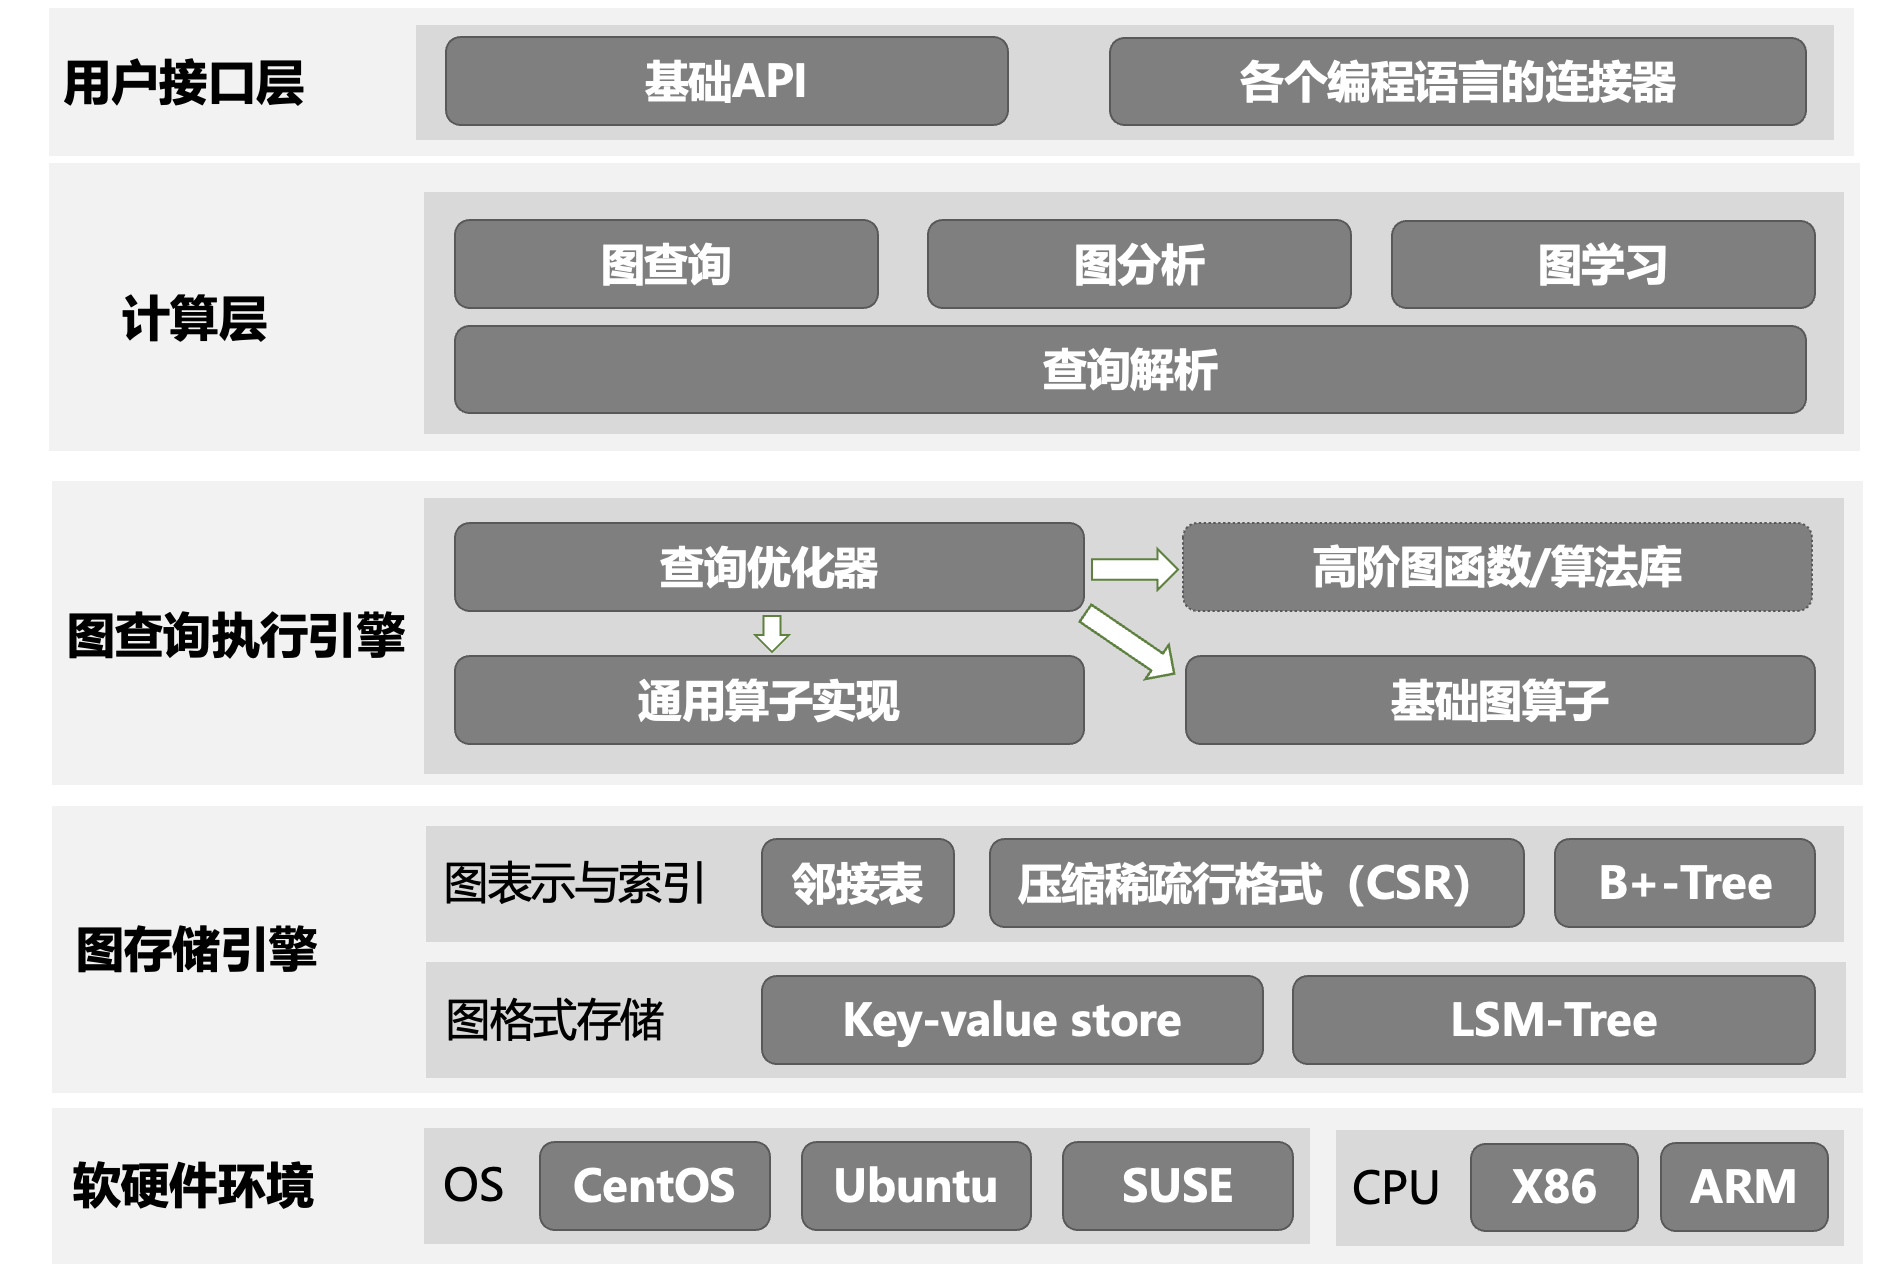
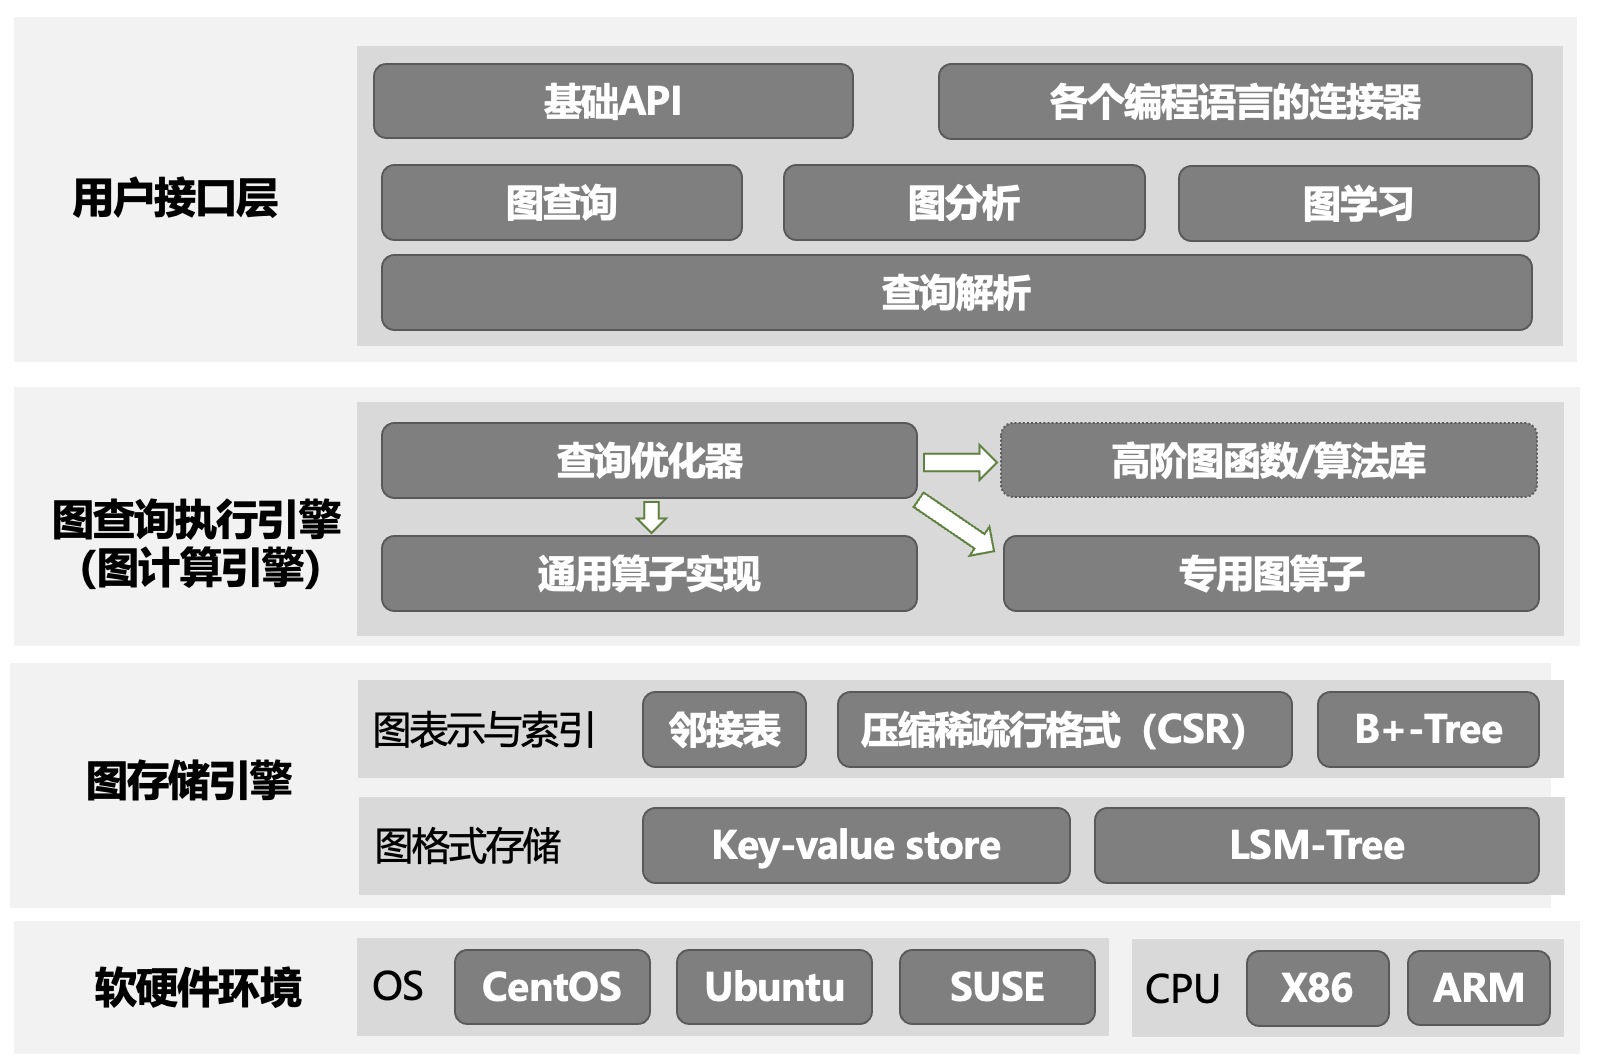
喵

diff --git a/chapter3.6-G.md b/chapter3.6-G.md
@@ -7,11 +7,12 @@
 
 ### 3.6.1 图数据库的软件架构
 
-在[**3.1小节**](chapter3.1.md) 中，我们讲授了数据管理系统的基本架构（图3.1）。图数据库遵从此框架，其架构如图3.13所示。**用户接口层**包括了基础API供开发者调用，同时提供多种编程语言（如 Java、Python、C++）的客户端库，使开发者可以通过代码直接与数据库交互。**计算引擎**包括了查询解析和查询执行引擎，对于一个图查询任务首先由查询解析模块生成初步执行计划，随后经过图查询执行引擎的查询优化模块进行优化，并调用相应的算子进行执行。
+在[**3.1小节**](chapter3.1.md) 中，我们讲授了数据管理系统的基本架构（图3.1）。图数据库遵从此框架（其架构如图3-6-1所示），其中**用户接口层**包括了基础API供开发者调用，同时提供多种编程语言（如 Java、Python、C++）的客户端库，使开发者可以通过代码直接与数据库交互。通过用户接口，用户可以将相应的图查询语句提交给数据库。目前大多数图数据库（如neo4j和TuGraph）不仅支持基于cypher的图数据库查询，同时还支持更复杂的图分析和图学习任务。用户经由API输入的图查询/图分析操作通过**查询解析**“理解”其查询语义，并将其转化为一棵抽象语法树。
+**计算引擎**利用抽象语法树生成初步执行计划，并通过查询优化模块进行优化，用相应的算子进行执行。
 
-图算子通常为通用或者专用的基础图算法。此处“通用算法”指图上的基础操作，其他图算法可由该类算法组合得到。“专用算法”是指某些算法虽然可由更底层的算子进行实现，但该类算法使用频率高，因此图数据库通常将其作为一个单独的图算法进行专门的设计和优化。例如，“社区发现”是一类用于识别网络中节点分组的方法，目标是将网络划分为多个社区，使得社区内节点之间的连接更紧密，而社区间的连接较为稀疏。该算法在在社交网络分析、生物网络建模、推荐系统等领域有重要应用；虽然此算法并非图上的基础运算，但因其复杂性和常用性，大多数图数据库将其单独实现。此外，在图查询（以及图分析和图学习）中，很多高层计算过程是某些固定的底层算法的组合，因此部分图数据库会将此类计算过程以“算法库”的方式进行实现，以避免每次用到该高层算法的时候都调用查询优化过程而浪费计算资源。
+图算子通常为通用或者专用的基础图算法。此处“通用算法”指图上的基础操作，其他图算法可由该类算法组合得到。“专用算子/算法”是指某些算法虽然可由更底层的算子进行实现，但该类算法使用频率高，因此图数据库通常将其作为一个单独的图算法进行专门的设计和优化。例如，“社区发现”是一类用于识别网络中节点分组的方法，目标是将网络划分为多个社区，使得社区内节点之间的连接更紧密，而社区间的连接较为稀疏。该算法在在社交网络分析、生物网络建模、推荐系统等领域有重要应用；虽然此算法并非图上的基础运算，但因其复杂性和常用性，大多数图数据库将其单独实现。此外，在图查询（以及图分析和图学习）中，很多高层计算过程是某些固定的底层算法的组合，因此部分图数据库会将此类计算过程以“算法库”的方式进行实现，以避免每次用到该高层算法的时候都调用查询优化过程而浪费计算资源。
 
-经过上述过程得到的物理执行计划，将由图存储引擎配合下下进行执行——图存储引擎通过调用内存和外存中的数据，完成上述计算过程。
+经过上述过程得到的物理执行计划，将由图**存储引擎**配合下下进行执行——图存储引擎通过调用内存和外存中的数据，完成上述计算过程。
 
 
 
@@ -19,7 +20,7 @@
 	<img src="fig/ch3.6-graph-arch.jpg" width="80%" alt="cypher-cycle" />
 	<br>
 	<div display: inline-block; padding : 2px>
-		图 3.13-图数据库软件架构
+		图 3-6-1 图数据库软件架构
 	</div>
 </center>
 
@@ -33,12 +34,12 @@
 
 ### 3.6.2 图数据库的查询处理的执行过程
 
-图数据库的查询即为输入一个查询语句，图数据库给出查询结果的过程。一个查询语句（以Cypher语言的查询为例）的查询处理分为三个步骤：查询解析、查询优化和查询执行，如图 3.14 所示。
+图数据库的查询即为输入一个查询语句，图数据库给出查询结果的过程。一个查询语句（以Cypher语言的查询为例）的查询处理分为三个步骤：查询解析、查询优化和查询执行，如图3-6-2所示。
 <center>
 	<img src="fig/3.6-1-cypherCycle.png" width="100%" alt="cypher-cycle" />
 	<br>
 	<div display: inline-block; padding : 2px>
-		图 3.14 Cypher语言查询处理步骤
+		图 3-6-2  Cypher语言查询处理步骤
 	</div>
 </center>
 
@@ -59,20 +60,20 @@ RETURN c.Cno AS Cno, r.Grade AS Grade
 ```
 
 
-当处理例3.8的Cypher语句时，图数据库（以Neo4j为例）首先通过查询解析将该语句转化为一个抽象语法树，如图3.15所示。在查询解析的步骤中，Neo4j首先通过词法分析将该查询字符串分解成一系列标记（tokens），如关键字、标识符、常量、操作符、分隔符等。然后通过语法分析构建语法树，在该过程中Neo4j会先依据上下文无关文法（Context-free Grammar）来生成具体语法树，再将其转化为抽象语法树。二者的区别在于，具体语法树会详细地还原查询语句中的所有细节，而抽象语法树则通过树结构本身隐式地表达一些内容，如括号、连接等等。最后，语义分析进⼀步验证顶点和边的依赖关系是否成⽴、是否正确使⽤属性等，增强语法树的语义表达和中间表示。语法分析和语义分析的区别在于语义分析在语法分析的基础上考虑了语句的逻辑性。
+当处理例3.8的Cypher语句时，图数据库（以Neo4j为例）首先通过查询解析将该语句转化为一个抽象语法树，如图3-6-3所示。在查询解析的步骤中，Neo4j首先通过词法分析将该查询字符串分解成一系列标记（tokens），如关键字、标识符、常量、操作符、分隔符等。然后通过语法分析构建语法树，在该过程中Neo4j会先依据上下文无关文法（Context-free Grammar）来生成具体语法树，再将其转化为抽象语法树。二者的区别在于，具体语法树会详细地还原查询语句中的所有细节，而抽象语法树则通过树结构本身隐式地表达一些内容，如括号、连接等等。最后，语义分析进⼀步验证顶点和边的依赖关系是否成⽴、是否正确使⽤属性等，增强语法树的语义表达和中间表示。语法分析和语义分析的区别在于语义分析在语法分析的基础上考虑了语句的逻辑性。
 
 <center>
 	<img src="fig/3.6-2-cypherExplaining.png" width="100%" alt="cypher-explain" />
 	<br>
 	<div display: inline-block; padding : 2px>
-		图 3.15查询解析过程
+		图 3-6-3 查询解析过程
 	</div>
 </center>
 
 
 在完成查询解析后，查询优化器会将语法树转化为**逻辑执行计划**，并根据逻辑执行计划的结构和索引来生成多个物理执行计划。
 查询优化器会选择生成的最优计划来执行，并尝试所有可能的索引，选择执行时间最短的索引（在当前例子中，我们并没有在数据中创建和指定索引）。
-该示例中Neo4j最终选择的查询计划如图3.16所示，其中estimated rows表示当前运算符预计（产生）处理的行数，查询优化器会基于estimated rows来选择合适的执行计划；db hits表示当前运算符向Neo4j存储引擎请求的单位数量，一次数据库命中是存储引擎工作（检索或更新数据等操作）的一个抽象单位；rows表示当前运算符实际产生的数据行数量。首先系统需要通过Scan扫描找到查询的开始点，每个算子通常都包括多种执行方式，扫描操作包括AllNodesScan、NodeIndexSeek等，此处使用NodeByLabelScan来通过节点标签扫描开始点；Filter过滤将前一运算符得到的所有row进行断言，返回结果为true的行；Expand(All)对于给定的开始节点，根据关系中的模式沿开始节点展开；最后Projection投影将输入的每一行都按照要求输出需要的结果。
+该示例中Neo4j最终选择的查询计划如图3-6-4所示，其中estimated rows表示当前运算符预计（产生）处理的行数，查询优化器会基于estimated rows来选择合适的执行计划；db hits表示当前运算符向Neo4j存储引擎请求的单位数量，一次数据库命中是存储引擎工作（检索或更新数据等操作）的一个抽象单位；rows表示当前运算符实际产生的数据行数量。首先系统需要通过Scan扫描找到查询的开始点，每个算子通常都包括多种执行方式，扫描操作包括AllNodesScan、NodeIndexSeek等，此处使用NodeByLabelScan来通过节点标签扫描开始点；Filter过滤将前一运算符得到的所有row进行断言，返回结果为true的行；Expand(All)对于给定的开始节点，根据关系中的模式沿开始节点展开；最后Projection投影将输入的每一行都按照要求输出需要的结果。
 
 
 
@@ -82,7 +83,7 @@ RETURN c.Cno AS Cno, r.Grade AS Grade
 	<img src="fig/3.6-3-cypherQueryPlan.png" width="30%" alt="cypher- queryPlan" />
 	<br>
 	<div display: inline-block; padding : 2px>
-		图 3.17 查询计划
+		图 3-6-4 查询计划
 	</div>
 </center>
 
@@ -119,12 +120,12 @@ RETURN c.name, c.grade
 	<img src="fig/graph_operator.jpg" width="30%" alt="graph_operator" />
 	<br>
 	<div display: inline-block; padding : 2px>
-		图 3.18 火山模型执行过程
+		图 3-6-5 火山模型执行过程
 	</div>
 </center>
 
 
-图数据库系统对该查询进行词法解析、语法解析和语义分析，并对生成并优化对应的查询计划，最后生成算子执行树（如图3.18所示）。其中，每个算子`next()`函数的具体实现过程和伪代码如下所示：
+图数据库系统对该查询进行词法解析、语法解析和语义分析，并对生成并优化对应的查询计划，最后生成算子执行树（如图3-6-5所示）。其中，每个算子`next()`函数的具体实现过程和伪代码如下所示：
 
 
 

diff --git a/chapter1.16-G.md b/chapter1.16-G.md
@@ -19,13 +19,13 @@
 
 节点模式匹配（Node pattern matching）是指匹配符合特定条件的一组节点，通常关注节点的属性和类型。每个图模式至少包含一个节点模式。最简单的图模式是单个空节点模式，用Cypher表示为`()`，空节点模式会匹配属性图中的每个节点。
 
-例如，对于图1.33的学生选课数据库的图模型，如果我们要查找所有计算机系的学生节点，直观来看，节点模式匹配结果如下：
+例如，对于图1-14-3的学生选课数据库的图模型，如果我们要查找所有计算机系的学生节点，直观来看，节点模式匹配可得到如图1-16-1所展示的结果，其中匹配到的节点用红色圆圈标注。
 
 <center>
 	<img src="fig/1.1.1_5.png" width="100%" alt="cluster" />
 	<br>
 	<div display: inline-block; padding : 2px>
-		图 1.34 节点模式匹配示例
+		图 1-16-1 节点模式匹配示例 （匹配的节点以红色圆圈标注）
 	</div>
 </center>
 
@@ -33,13 +33,13 @@
 
 关系模式匹配（Relationship pattern matching）是指匹配符合特定条件的关系，关注边的类型和属性。最简单的关系模式用Cypher表示是`--`，该模式匹配任何方向的关系，不过滤任何关系类型或属性。
 
-例如，对于图1.35的学生选课数据库的图模型，如果我们要查找最终成绩在90及以上的所有选课关系，直观来看，关系模式匹配结果如下：
+例如，对于图1-14-3的学生选课数据库的图模型，如果我们要查找最终成绩在90及以上的所有选课关系，直观来看，关系模式匹配可得到如图1-16-2所展示的结果.
 
 <center>
 	<img src="fig/1.1.1_6.png" width="100%" alt="cluster" />
 	<br>
 	<div display: inline-block; padding : 2px>
-		图 1.35 关系模式匹配示例
+		图 1-16-2 关系模式匹配示例（匹配的关系以红色线条标注）
 	</div>
 </center>
 
@@ -63,13 +63,13 @@
 - `()-->`
 - `()-->-->()`
 
-例如，对于图1-14-3的学生选课数据库的图模型，如果我们要查找沐辰选择的所有课程的路径，直观来看，路径模式匹配可得到如图1-16-1的结果：
+例如，对于图1-14-3的学生选课数据库的图模型，如果我们要查找沐辰选择的所有课程的路径，直观来看，路径模式匹配可得到如图1-16-3的结果：
 
 <center>
 	<img src="fig/1.1.1_7.png" width="100%" alt="cluster" />
 	<br>
 	<div display: inline-block; padding : 2px>
-		图 1-16-1 路径模式匹配示例
+		图 1-16-3 路径模式匹配示例 （其中匹配的路径以红色标注）
 	</div>
 </center>
 

diff --git a/chapter2.6-G.md b/chapter2.6-G.md
@@ -24,13 +24,13 @@
 
 相比于点结构，边的结构要复杂很多。关系存储文件中每个关系记录主要包含关系的起始节点ID和结束节点ID、关系类型的指针（存储在关系类型存储文件中），以及起始节点的上下关系和结束节点的上下关系，即维护了一个双向链表。接下来，我们将通过一个简单的例子来理解关系存储中的双向链表。
 
-如下图所示，图中包含两个标签为Person的点：Node 1和Node 2，他们均包含两个属性：`name`和`age`。两个节点记录都包含一个指向该节点的第一个属性的指针和关系链中第一个关系的指针，其中Node 1和Node 2关联的第一个关系分别用“起始节点的前一个关系”和“结束节点的前一个关系”来表示。要读取某节点的属性，我们从指向该节点第一个属性的指针开始遍历单向链表结构。要找到一个节点的关系，我们从指向该节点第一个关系的节点关系指针开始，顺着特定节点的关系的双向链表寻找，直到找到感兴趣的关系。
+如下2-6-1所示，图中包含两个标签为Person的点：Node 1和Node 2，他们均包含两个属性：`name`和`age`。两个节点记录都包含一个指向该节点的第一个属性的指针和关系链中第一个关系的指针，其中Node 1和Node 2关联的第一个关系分别用“起始节点的前一个关系”和“结束节点的前一个关系”来表示。要读取某节点的属性，我们从指向该节点第一个属性的指针开始遍历单向链表结构。要找到一个节点的关系，我们从指向该节点第一个关系的节点关系指针开始，顺着特定节点的关系的双向链表寻找，直到找到感兴趣的关系。
 
 <center>
 	<img src="fig/2.6.1_1.png" width="100%" alt="Neo4j store" />
 	<br>
 	<div display: inline-block; padding : 2px>
-		图 2.6 图在Neo4j中物理存储的方式
+		图 2-6-1 图在Neo4j中物理存储的方式
 	</div>
 </center>
 

diff --git a/chapter3.7-G.md b/chapter3.7-G.md
@@ -14,7 +14,7 @@
 - 模式匹配合并：将多个相关的模式匹配语句合并为一整个查询，避免重复扫描。
 - 连接优化：协调不同查询子模式的连接顺序，优先执行匹配结果较少的连接。
 
-接下来，我们沿用学生选课成绩的数据来展示一个简单的图查询逻辑优化。图3.19 展示了该Cypher语句的初步查询计划经过逻辑优化后生成最终查询计划的过程。
+接下来，我们沿用学生选课成绩的数据来展示一个简单的图查询逻辑优化。图3-7-1 展示了该Cypher语句的初步查询计划经过逻辑优化后生成最终查询计划的过程。
 
 ```sql
 [例3.10] 查询选修“计算机“课程且成绩高于85分的学生姓名、课程和成绩。
@@ -27,7 +27,7 @@ RETURN s.Sname, c.Cname, e.Grade
 	<img src="fig/3.8-1-optimizing.png" width="75%" alt="graph-optimizing" />
 	<br>
 	<div display: inline-block; padding : 2px>
-		图 3.19 逻辑优化过程
+		图 3-7-1 逻辑优化过程
 	</div>
 </center>
 
